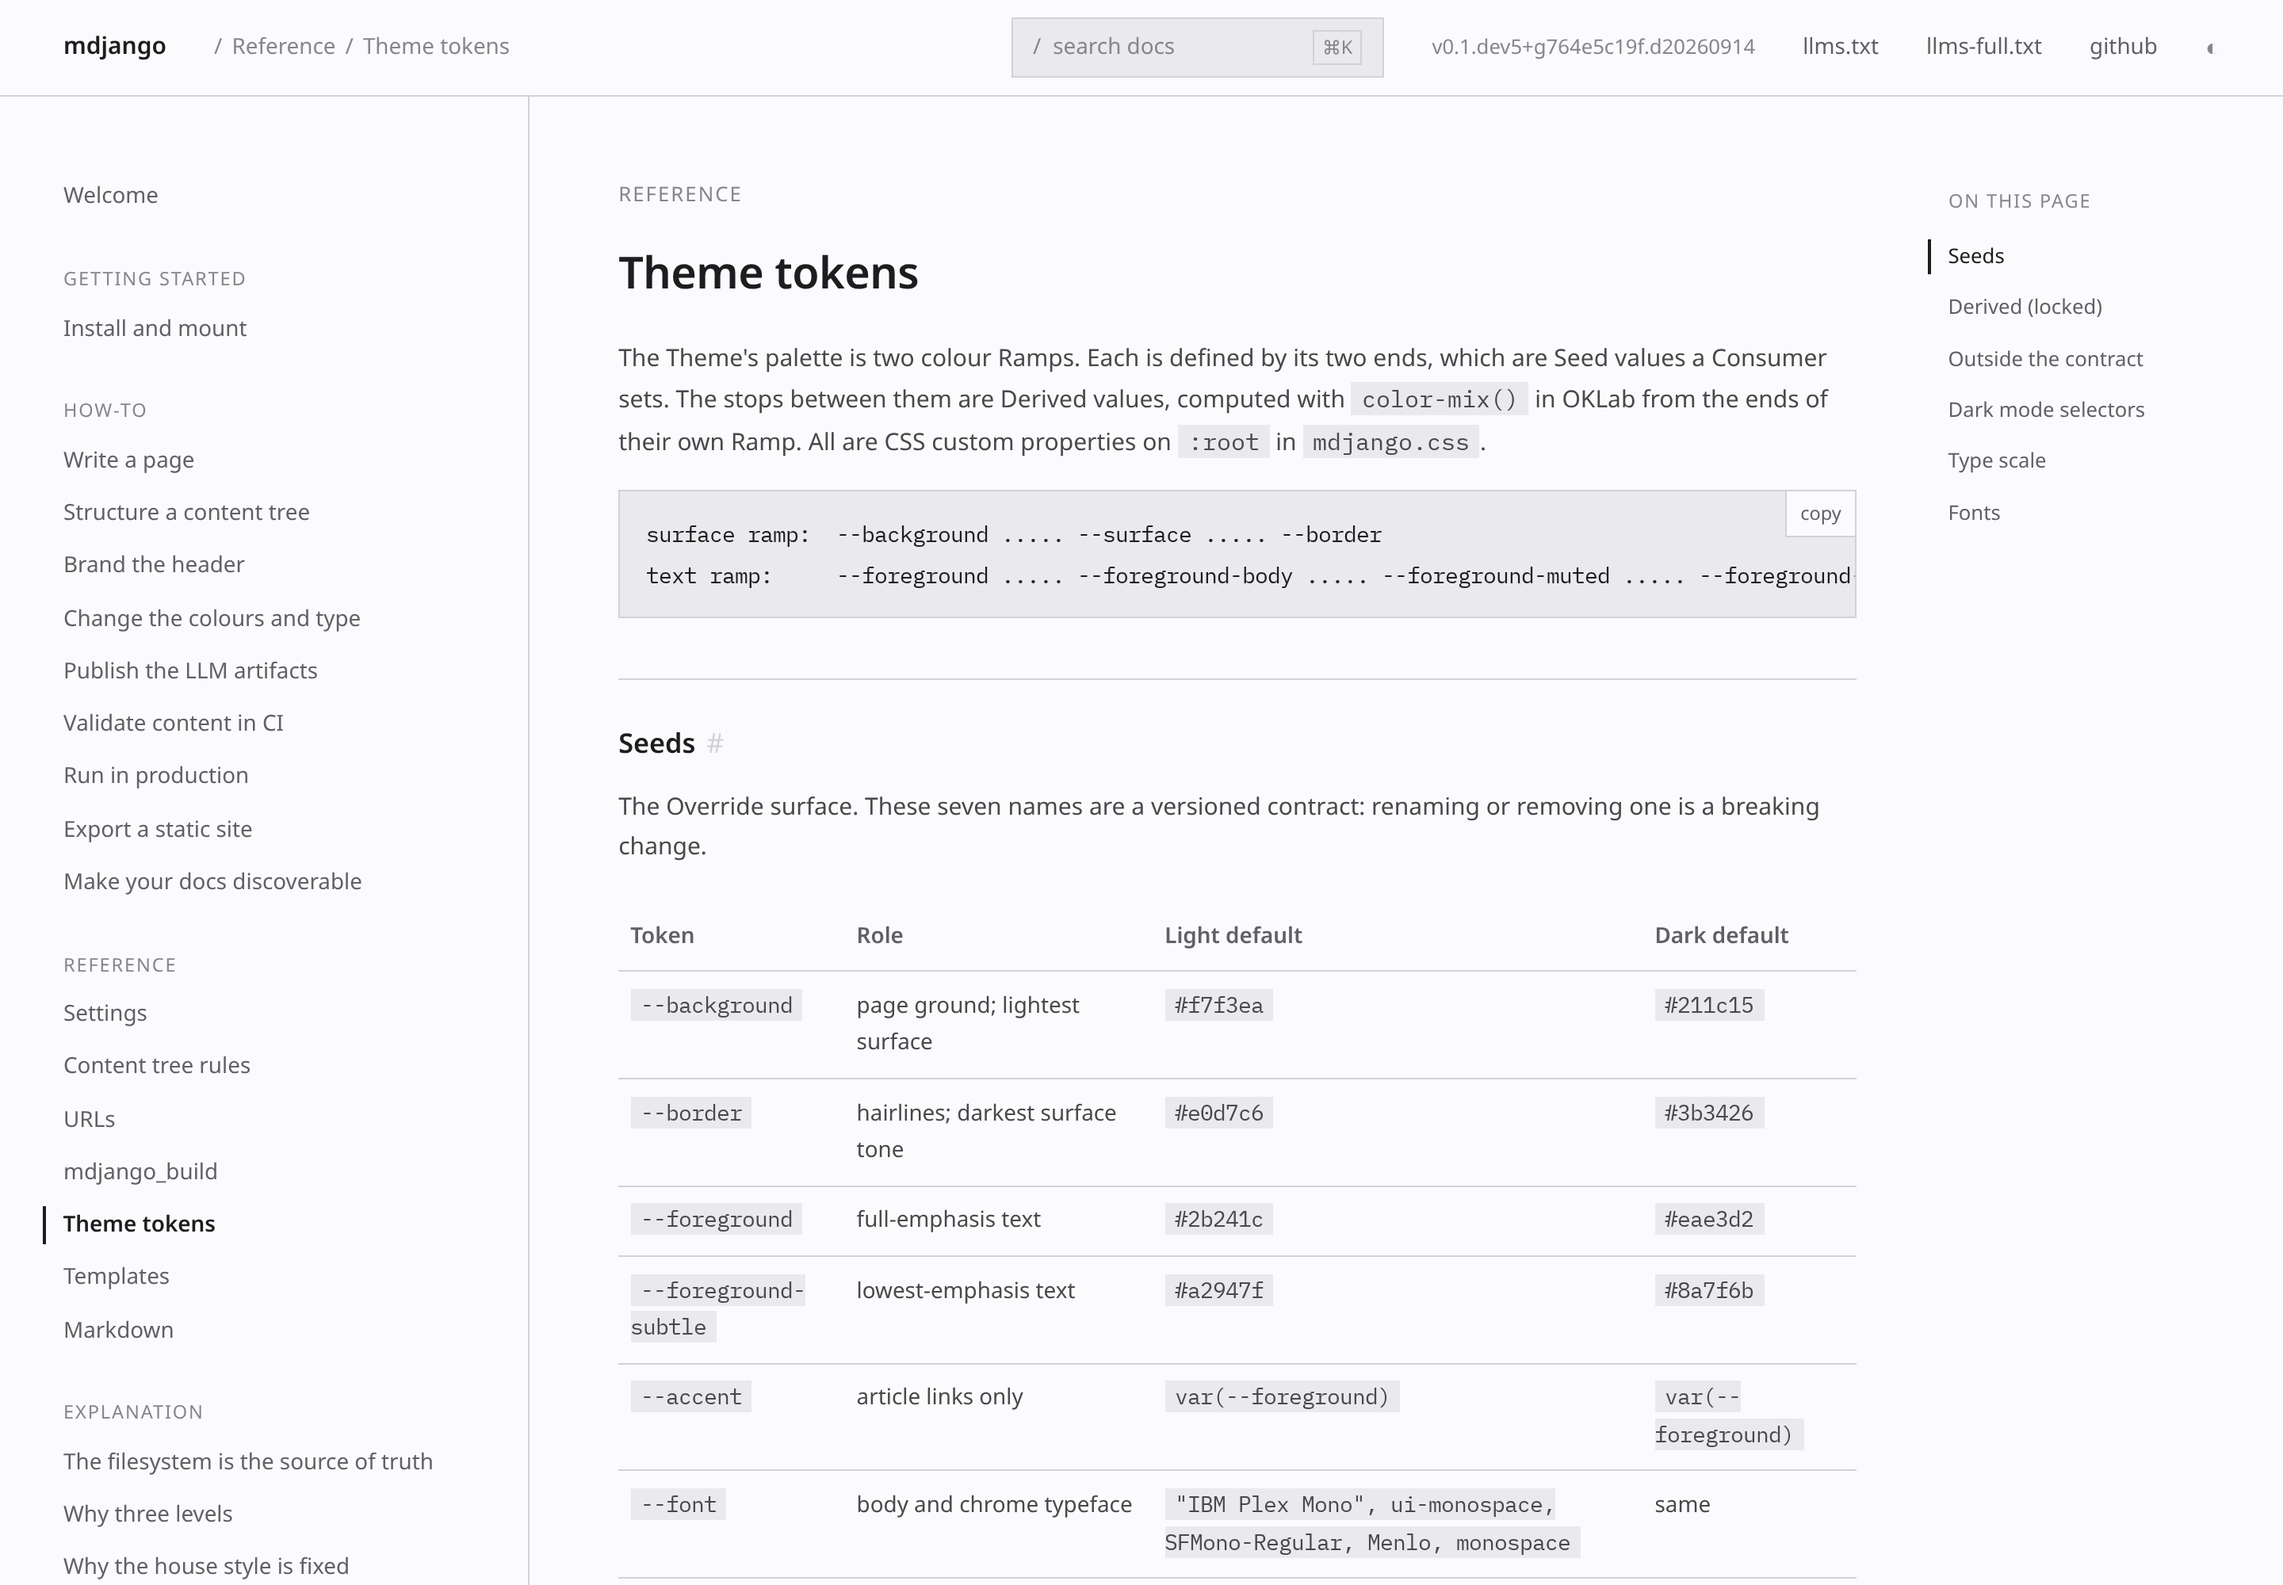
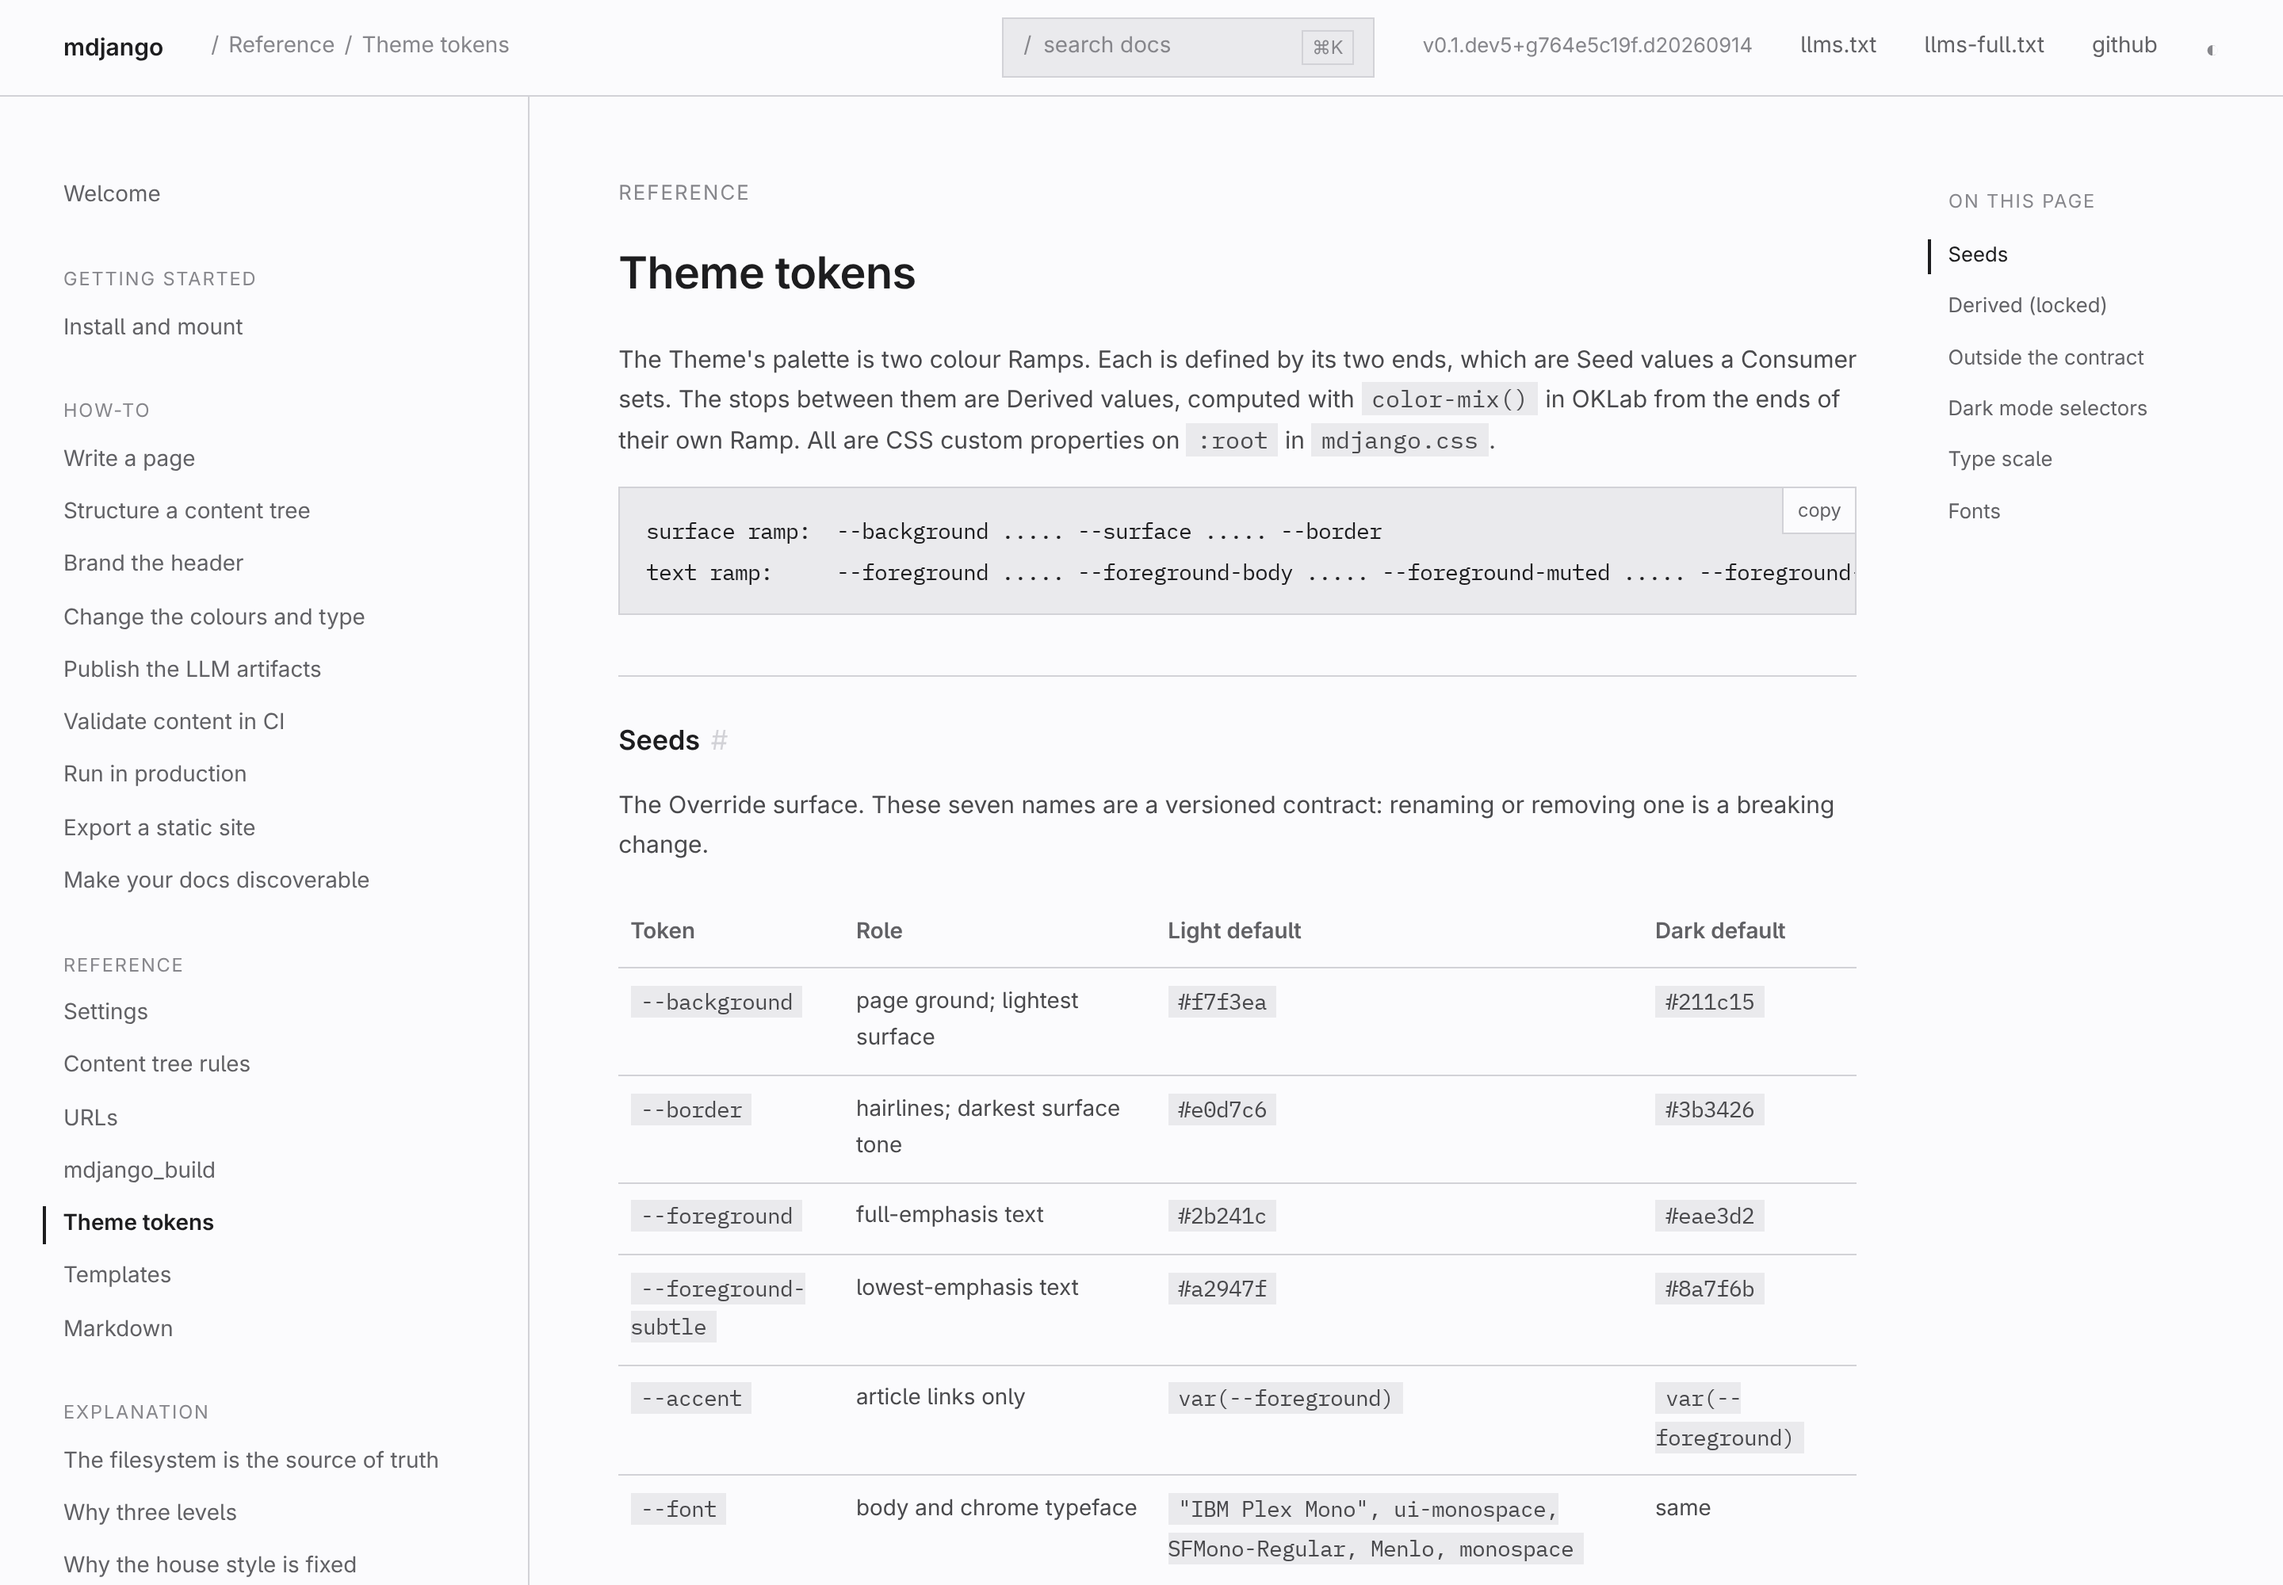
docs(theme-gallery): give all six themes a distinct, verified font
Follow-up to #3. The gallery merged there had two problems, both invisible in
a static read of the CSS:

- apple and stripe both rendered as Noto Sans — Chromium ignored the
  `Segoe UI`→Adwaita fontconfig alias stripe relied on, so two "different"
  stacks collapsed to the same face.
- ocean/claret/forest set no --font at all, so the colour trio was all mono.

Now every theme sets --font and renders a different family, verified with
CSS.getPlatformFontsForNode (not read off the CSS): ocean=Noto Sans,
claret=Noto Serif, forest=Liberation Serif, apple=Adwaita Sans,
tesla=Liberation Sans, stripe=Cantarell. Stacks name an installed family as a
fallback so the demo stays distinct on the Linux render box; a viewer with the
real face (SF/Helvetica/Segoe UI) still sees that. --code-font is not a seed,
so code blocks stay IBM Plex Mono everywhere. Screenshots re-rendered; README
documents intended-vs-rendered face and the 4-sans/2-serif caveat.

Claude-Session: https://claude.ai/code/session_01353wkrHrBfKW4pNDhMzNXH

diff --git a/docs/theme-gallery/css/apple.css b/docs/theme-gallery/css/apple.css
@@ -6,7 +6,7 @@
   --foreground-subtle: #86868b;
   --accent: #0071e3;
   /* code stays mono via --code-font (not a seed); only body/chrome change */
-  --font: -apple-system, "SF Pro Text", system-ui, sans-serif;
+  --font: -apple-system, "SF Pro Text", "Adwaita Sans", system-ui, sans-serif;
   --font-size: 15px;
 }
 :root[data-theme="dark"] {

diff --git a/docs/theme-gallery/css/stripe.css b/docs/theme-gallery/css/stripe.css
@@ -6,7 +6,7 @@
   --foreground-subtle: #697386;
   --accent: #635bff;
   /* system UI sans; code stays mono via --code-font */
-  --font: "Segoe UI", system-ui, Roboto, sans-serif;
+  --font: "Segoe UI", "Sohne", Cantarell, system-ui, sans-serif;
   --font-size: 15px;
 }
 :root[data-theme="dark"] {

diff --git a/docs/theme-gallery/css/forest.css b/docs/theme-gallery/css/forest.css
@@ -5,6 +5,8 @@
   --foreground: #182119;
   --foreground-subtle: #6d8070;
   --accent: #2f8f4e;
+  /* old-style (Times-like) serif; code stays mono via --code-font */
+  --font: "Liberation Serif", "Times New Roman", serif;
 }
 :root[data-theme="dark"] {
   --background: #101711;

diff --git a/docs/theme-gallery/css/ocean.css b/docs/theme-gallery/css/ocean.css
@@ -5,6 +5,8 @@
   --foreground: #16202e;
   --foreground-subtle: #6b7d93;
   --accent: #2563eb;
+  /* humanist sans; code stays mono via --code-font */
+  --font: "Noto Sans", system-ui, sans-serif;
 }
 :root[data-theme="dark"] {
   --background: #0e1620;

diff --git a/docs/theme-gallery/css/claret.css b/docs/theme-gallery/css/claret.css
@@ -5,6 +5,8 @@
   --foreground: #2a1a1c;
   --foreground-subtle: #9a7b7d;
   --accent: #c02b4e;
+  /* editorial serif; code stays mono via --code-font */
+  --font: "Noto Serif", Georgia, serif;
 }
 :root[data-theme="dark"] {
   --background: #1e1416;

diff --git a/docs/theme-gallery/README.md b/docs/theme-gallery/README.md
@@ -7,27 +7,32 @@ visual regression eye-check for the seed contract. **Dev-only:** this tree is ou
 
 ## What's here
 
-- `css/` — six themes. The three colour palettes set only the five **colour** seeds (`--background`,
-  `--border`, `--foreground`, `--foreground-subtle`, `--accent`), keeping the house mono. The three
-  brand palettes also set `--font` (and some `--font-size`). Colours are set for light and both dark
-  selectors; `--font`/`--font-size` sit in the base `:root` (typography does not change by theme).
+- `css/` — six themes, each setting a `--font` so all six render in a **different** typeface (the
+  point: every theme is visibly distinct, and the seed contract is exercised past colour alone).
+  Colours are set for light and both dark selectors; `--font`/`--font-size` sit in the base `:root`
+  (typography does not change by theme). `--code-font` is **not** a seed, so code blocks stay in
+  IBM Plex Mono in every theme.
 - `screenshots/` — each theme light + dark on the `reference/theme-tokens` page (retina, 2×), plus
   two contact sheets (`palettes-contact-sheet.png`, `brands-contact-sheet.png`).
 
-| Theme | Accent | Body font |
-|---|---|---|
-| `ocean` | blue | house mono (IBM Plex Mono) |
-| `claret` | crimson | house mono |
-| `forest` | green | house mono |
-| `apple` | blue | SF-style sans stack — 15px |
-| `tesla` | red | Helvetica-style sans stack — 14px |
-| `stripe` | indigo | UI sans stack — 15px |
+The `--font`s are **system stacks**, not vendored web fonts — mdjango ships only IBM Plex Mono and
+forbids CDN fetches (ADR 0003), so a named web font would silently fall back. The committed
+screenshots were rendered on Linux, which has none of the real brand faces, so each stack names an
+installed family as a fallback to stay visibly distinct here rather than collapsing to one default.
+The **rendered** face below was verified with `CSS.getPlatformFontsForNode` — all six differ:
 
-The brand `--font`s are **system stacks**, not vendored web fonts — mdjango ships only IBM Plex Mono
-and forbids CDN fetches (ADR 0003), so a named web font would silently fall back. `--code-font` is
-not a seed, so code blocks stay mono in every theme. The committed screenshots were rendered on
-Linux, so the exact face is each stack's Linux fallback (Noto Sans / Liberation Sans / Adwaita Sans);
-a viewer with the real face (SF, Helvetica, Segoe UI) sees that instead.
+| Theme | Accent | Intended face | Rendered here (Linux) | Genre |
+|---|---|---|---|---|
+| `ocean` | blue | (system sans) | Noto Sans | humanist sans |
+| `claret` | crimson | (system serif) | Noto Serif | serif |
+| `forest` | green | (system serif) | Liberation Serif | old-style serif (Times) |
+| `apple` | blue | SF Pro Text | Adwaita Sans | Inter-like sans |
+| `tesla` | red | Helvetica Neue | Liberation Sans | Helvetica sans |
+| `stripe` | indigo | Segoe UI / Sohne | Cantarell | geometric sans |
+
+A viewer who has the intended face sees that instead; the fallbacks only make the *demo* legible.
+With only these families installed the split is 4 sans + 2 serif, so `claret` and `forest` share the
+serif genre (different families — a modern serif vs Times); every other pair differs in genre too.
 
 ## How they were generated
 
